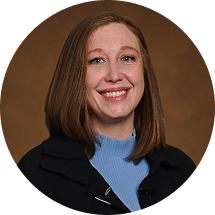
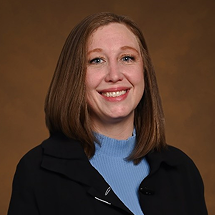
Made team cards centered horizontally

diff --git a/styles.css b/styles.css
@@ -408,13 +408,15 @@ nav a.active::after {
 }
 
 .team-grid {
-  display: grid;
-  grid-template-columns: repeat(auto-fit, minmax(200px, 1fr));
+  display: flex;
+  flex-wrap: wrap;
   gap: 30px;
   justify-content: center;
 }
 
 .team-card {
+  min-width: 200px;
+  max-width: 240px;
   background: white;
   border-radius: 12px;
   overflow: hidden;
@@ -431,7 +433,7 @@ nav a.active::after {
 
 .team-img {
   width: 85%;
-  height: 170px;
+  height: auto;
   object-fit: cover;
   transition: var(--transition-slow);
   border-radius: 50%;
